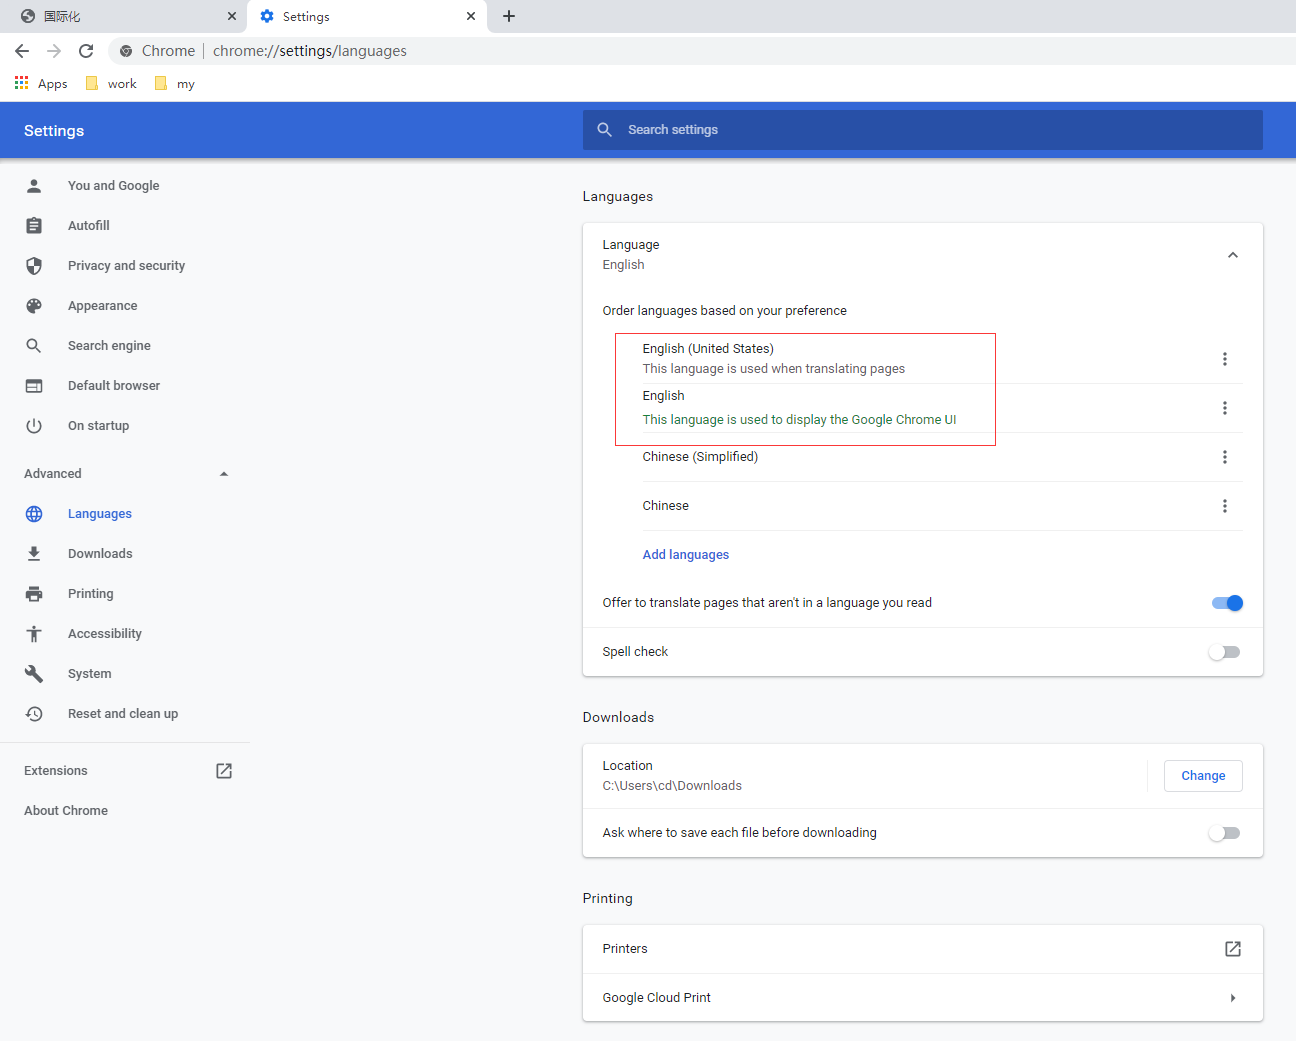
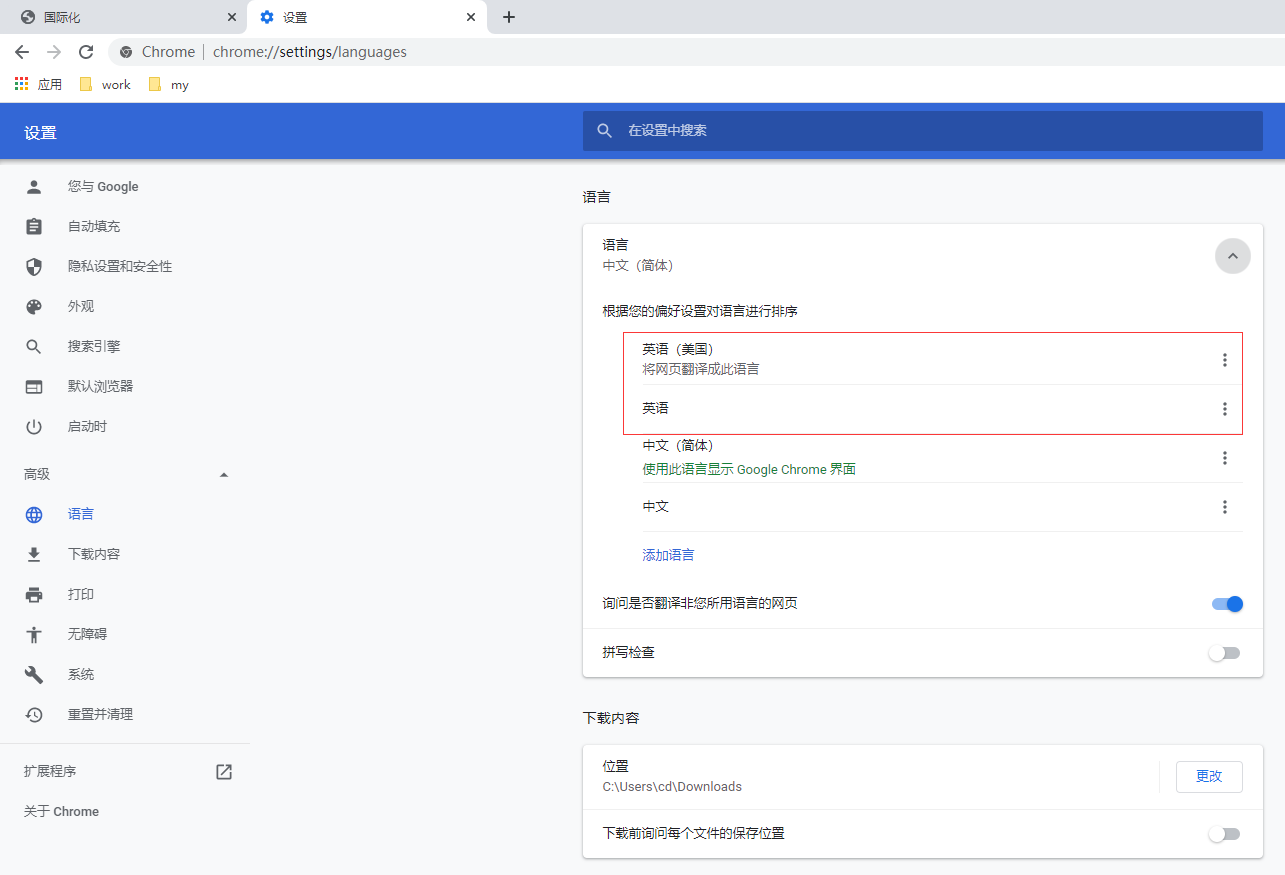
update readme/i18n国际化.md, README.md

diff --git a/i18n/src/com/java/www/LocaleTest.java b/i18n/src/com/java/www/LocaleTest.java
@@ -3,6 +3,7 @@ package com.java.www;
 import org.junit.Test;
 
 import java.util.Locale;
+import java.util.ResourceBundle;
 
 public class LocaleTest {
     @Test
@@ -27,5 +28,33 @@ public class LocaleTest {
         System.out.println(locale);
         Locale locale2 = new Locale("zh", "GANGGUO");
         System.out.println(locale2); // zh_GANGGUO
+    }
+
+    @Test
+    public void resourceBundleTest() {
+        // 获取不同的地区
+        Locale cnLocale = Locale.CHINA;
+        Locale usLocale = Locale.US;
+
+        System.out.println(usLocale);  // en_US
+        // 根据basename、Locale地区信息读取相应的资源配置文件
+        // 多国语言的资源配置文件命名规则: basename_语言_国家.properties
+        ResourceBundle rs1 = ResourceBundle.getBundle("i18n", cnLocale);
+        System.out.println("email: " + rs1.getString("email"));
+        System.out.println("password: " + rs1.getString("password"));
+        System.out.println("");
+
+        ResourceBundle rs2 = ResourceBundle.getBundle("i18n", usLocale);
+        System.out.println("email: " + rs2.getString("email"));
+        System.out.println("password: " + rs2.getString("password"));
+
+        /*
+en_US
+email: 邮箱
+password: 密码
+
+email: email
+password: password
+         */
     }
 }

diff --git a/readme/i18n国际化.md b/readme/i18n国际化.md
@@ -1,4 +1,94 @@
 i18n国际化
 ==
 
+## Table Of Contents
+* [什么是i18n国际化](#什么是i18n国际化)
+* [国际化的使用](#国际化的使用)
+    * [国际化相关的类](#国际化相关的类)
+    * [多国语言的资源配置文件命名规则](#多国语言的资源配置文件命名规则)
+    * [通过请求头中的Accept-Language字段获取Locale地区信息](#通过请求头中的Accept-Language字段获取Locale地区信息)
+    * [网站i18n国际化示例](#网站i18n国际化示例)
 
+
+
+
+## 什么是i18n国际化
+```text
+国际化(Internationalization)指的是同一个网站可以支持不同的语言文字，方便不同国家、不同语言的用户访问。
+网站国际化最简单的方案是为不同的国家创建不同的网站，如苹果公司，英文官网：https://www.apple.com
+中国官网：https://www.apple.com.cn
+
+这种方案不适合所有公司，我们希望相同的一个网站，可以根据用户所有的区域显示相应的语言文字，同时网站的布局和样式不变。
+于是就有了我们说的国际化，国际化总的来说就是同一个网站不同国家的人来访问可以显示出不同的语言。
+但实际上这种需求并不强烈，一般真的有国际化需求的公司，
+主流采用的依然是苹果公司的那种方案，为不同的国家创建不同的页面。
+所以国际化的内容我们了解一下即可。
+
+i18n是Internationalization的缩写，18代表中间的18个字母
+```
+
+## 国际化的使用
+国际化原理图
+
+![](../images/i18n国际化/国际化原理示意图.png)
+
+### 国际化相关的类
+* Locale类
+    >包含地区、语言信息
+    
+    [Locale类测试](../i18n/src/com/java/www/LocaleTest.java)
+    
+* ResourceBundle类
+    >根据basename、locale信息读取相应的资源配配置文件
+    
+
+### 多国语言的资源配置文件命名规则
+资源配置文件存放路径：在src/根目录下
+
+* basename.properties
+    >默认的语言
+* basename_语言_国家.properties
+    >具体的语言、国家信息
+
+**示例**
+```text
+i18n.properties         默认的国际化资源配置文件
+i18n_zh_CN.properties   中文_中国的国际化资源配置文件
+i18n_en_US.properties   英语_中文的国际化资源配置文件
+i18n_ko_KR.properties   韩语_韩国的国际化资源配置文件
+```
+
+
+### 通过请求头中的Accept-Language字段获取Locale地区信息
+```text
+request.getLocale();
+通过请求头中的Accept-Language字段获取Locale地区信息
+这是request对象的方法，
+
+下面这种方功能果同上
+// request headers包含信息：
+// Accept-Language: en-US,en;q=0.9,zh-CN;q=0.8,zh;q=0.7
+String localeStr = request.getHeader("Accept-Language").split(",")[0];
+String[] loc = localeStr.split("-");
+locale = new Locale(loc[0], loc[1]);
+```
+
+* 美国_英语 优先设置  
+    ![](../images/i18n国际化/chrome接受语言设置02.png)  
+    
+    请求头：
+    ![](../images/i18n国际化/chrome接受语言设置03.png)  
+
+* 中国_中文 优先设置  
+    ![](../images/i18n国际化/chrome接受语言设置04.png)  
+    
+    请求头：
+    ![](../images/i18n国际化/chrome接受语言设置05.png)  
+
+
+* 切换chrome浏览器UI语言的方法
+    ![](../images/i18n国际化/chrome切换UI语言.png)  
+
+### 网站i18n国际化示例
+* [一般的国际化版](../i18n/web/i18n.jsp)
+* [fmt标签的国际化版、国际化参数](../i18n/web/i18n_fmt.jsp)

diff --git a/README.md b/README.md
@@ -225,6 +225,14 @@ Java Web
     * [javascript原生的ajax请求](readme/json和ajax.md#javascript原生的ajax请求)
         * [ajax的XMLHttpRequest对象](readme/json和ajax.md#ajax的XMLHttpRequest对象)
 
+### i18n国际化
+* [什么是i18n国际化](readme/i18n国际化.md#什么是i18n国际化)
+* [国际化的使用](readme/i18n国际化.md#国际化的使用)
+    * [国际化相关的类](readme/i18n国际化.md#国际化相关的类)
+    * [多国语言的资源配置文件命名规则](readme/i18n国际化.md#多国语言的资源配置文件命名规则)
+    * [通过请求头中的Accept-Language字段获取Locale地区信息](readme/i18n国际化.md#通过请求头中的Accept-Language字段获取Locale地区信息)
+    * [网站i18n国际化示例](readme/i18n国际化.md#网站i18n国际化示例)
+
 ### Listener监听器
 * [listener监听器概念](readme/listener.md#listener监听器概念)
 * [listenner监听器分类](readme/listener.md#listenner监听器分类)
@@ -244,7 +252,7 @@ Java Web
     * [解决下载附件名为中文名的乱码问题](readme/fileUploadAndDownload.md#解决下载附件名为中文名的乱码问题)
 * [上传文件](readme/fileUploadAndDownload.md#上传文件)
 * [下载文件](readme/fileUploadAndDownload.md#下载文件)
-* [jQeury非Form标签上传文件](readme/fileUploadAndDownload.md#jQeury非Form标签上传文件)
+* [jQeury非form标签上传文件](readme/fileUploadAndDownload.md#jQeury非Form标签上传文件)
 
 ### 项目实战
 * [bookmall v2](bookmall/README.md)
